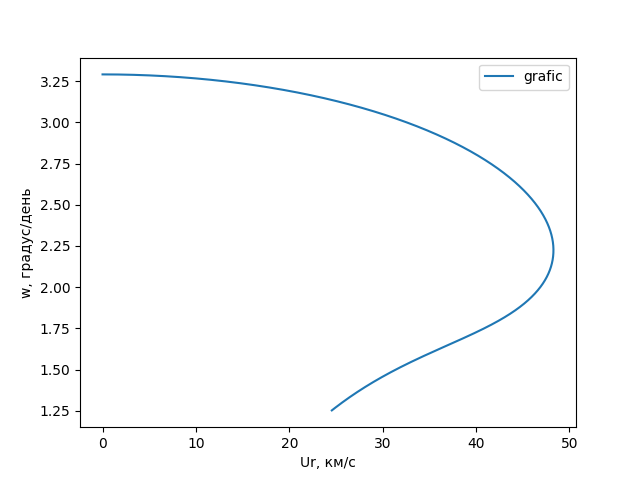
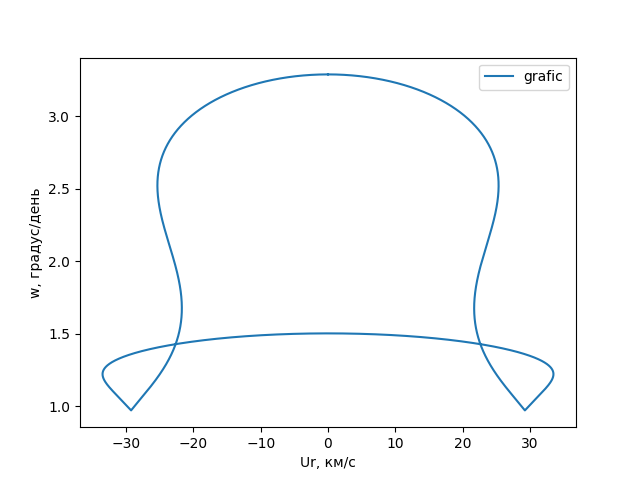
123

diff --git a/infa.py b/infa.py
@@ -16,7 +16,7 @@ fig, ax = plt.subplots()
 
 def ellips_plotter(A1, T1, M, e, alpha, A2, T2):
     p1 = A1*(1-e**2)                                        # фокальный параметр тела
-    E = np.linspace(0, 0.5*np.pi, 100000)                     # эксцентрическая аномалия тела
+    E = np.linspace(0, 2*np.pi, 100000)                     # эксцентрическая аномалия тела
     t = (E-e*np.sin(E))*T1/(2*np.pi)                        # время с перицентра 
     phi_1 = 2*np.arctan(np.tan(E/2)*((1+e)/(1-e))**0.5)     # истинная аномалия тела 
     phi_2 = 2*np.pi*(t/T2)                                  # истинная аномалия Земли
@@ -29,15 +29,22 @@ def ellips_plotter(A1, T1, M, e, alpha, A2, T2):
     L = (r1**2 + A2**2 - 2*r1*A2*np.cos(theta))**0.5        # расстояние между телом и Землёй
     psi = np.arcsin(np.sin(theta)*r1/L)                     # фазовый угол
     eps = np.arccos(Vr1/V1)                                 # угол между лучевой и полной тела
-    i = np.pi/2 + psi - eps                                 # угол между полной и трансверсальной для Земли
     gamma = np.arcsin(np.sin(theta)*A2/L)                   # элонгационный угол
-    print(i)
-    print(r1)
-    Ut = V1*np.cos(i) + V2*np.cos(gamma)                # трансверсальная относительно Земли
-    Ur = (V1*np.sin(i) - V2*np.sin(gamma))/1000             # лучевая относительно Земли
-    print(Ut)
-    print(Ur)
-    w = Ut/L * 180/np.pi * 86400                           # угловая относительно Земли
+
+    u = 2*np.pi/T2 * r1
+    print('u')
+    print(u)
+    V = (V1**2 + u**2 - 2*u*V1*np.cos(np.pi/2-eps))**0.5
+    print('V')
+    print(V)
+    betta = np.arcsin(np.sin(np.pi/2-eps)*u/V)
+    print('betta')
+    print(betta)
+    g = np.pi-psi+eps-betta
+    print('g')
+    print(g)
+    Ur = -V*np.cos(g) / 1000
+    w = -V*np.sin(g)/L *180*86400/np.pi + 360*86400/T2
 
     plt.plot(Ur, w, label='grafic')
     plt.xlabel('Ur, км/с')
